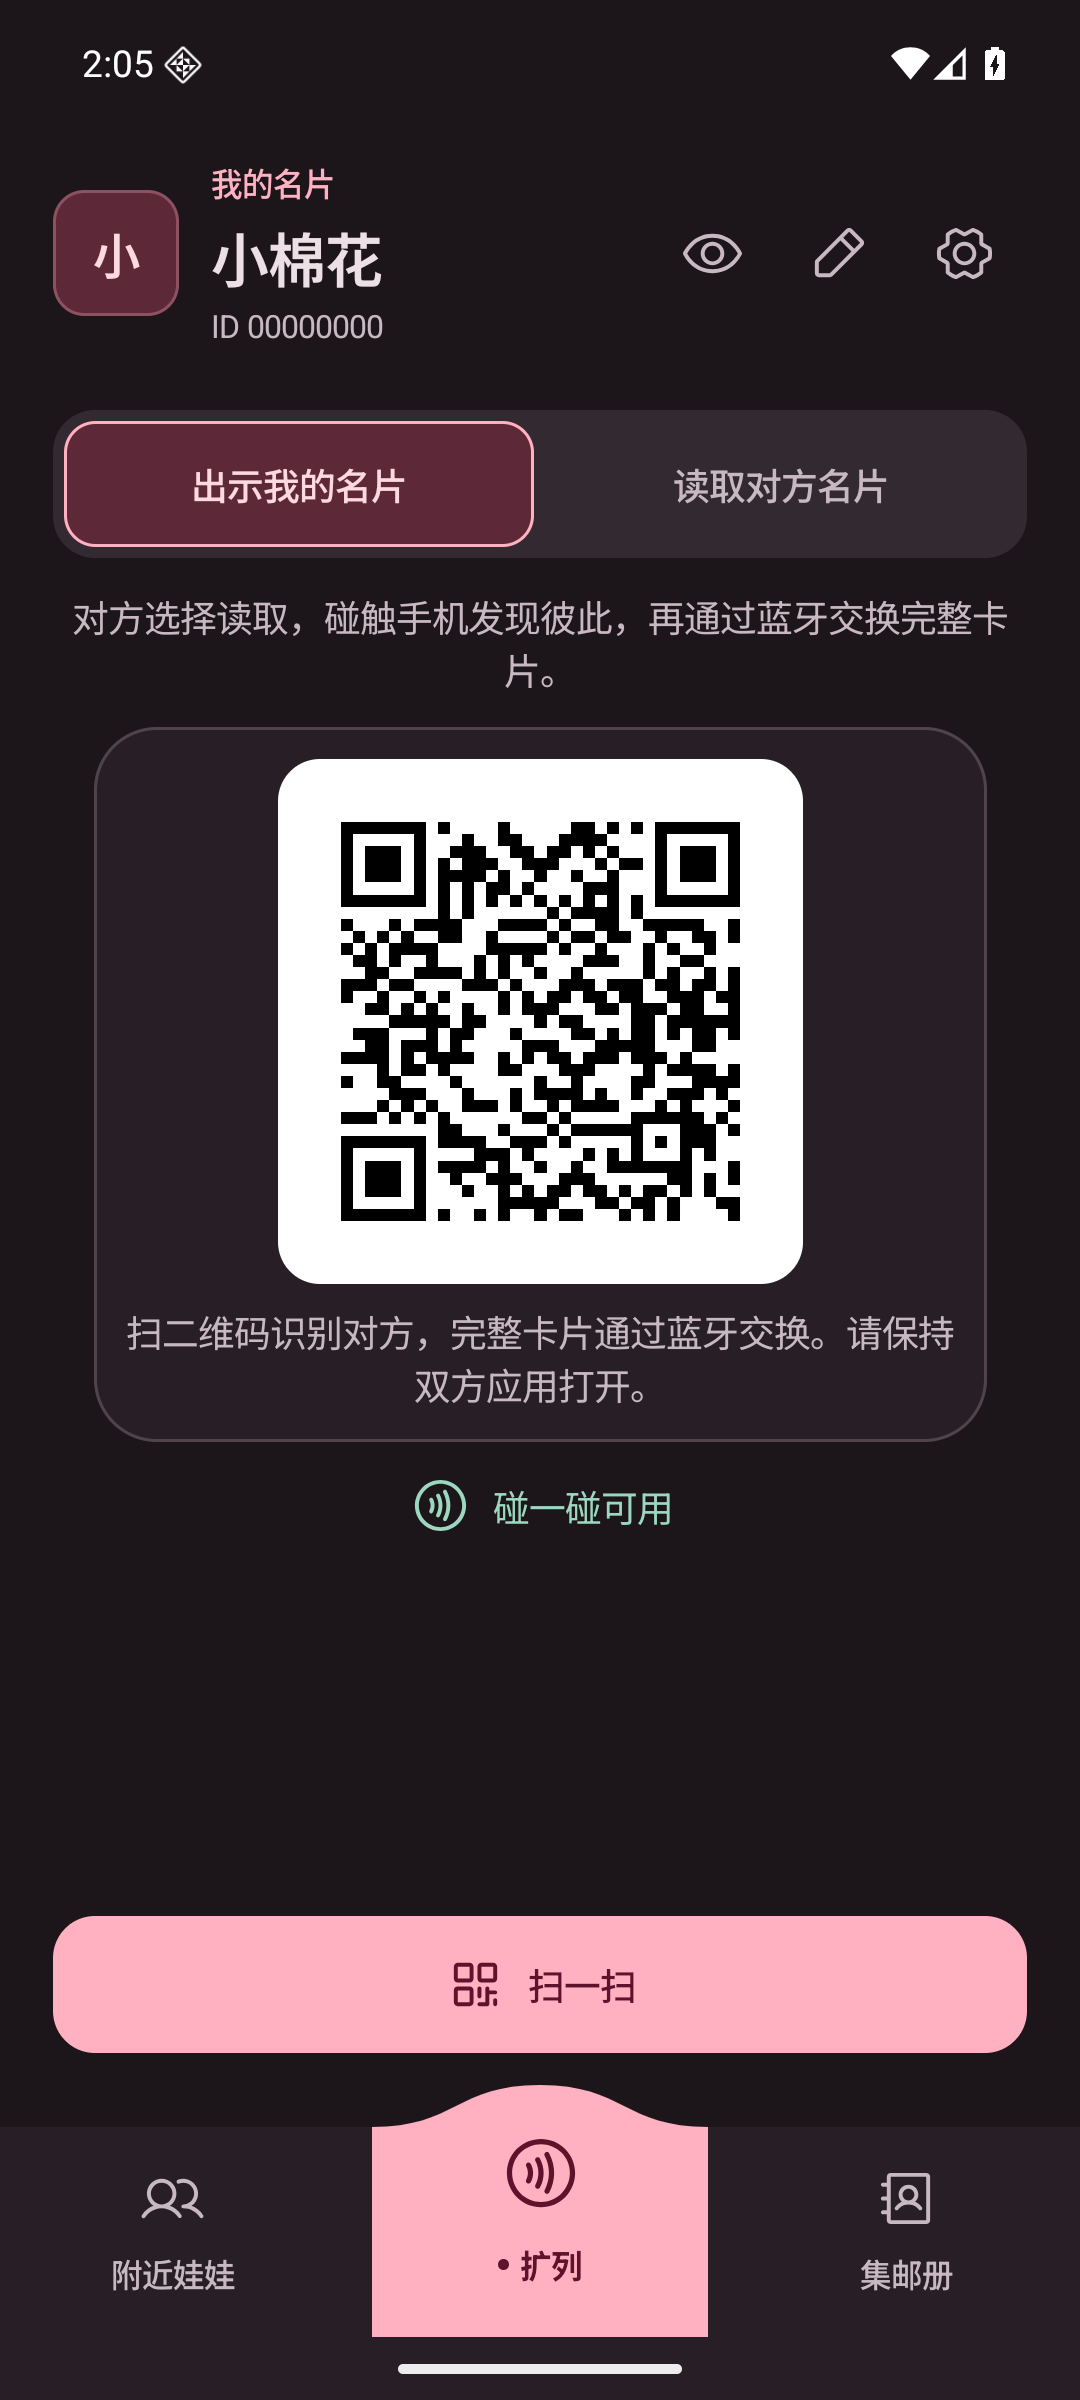
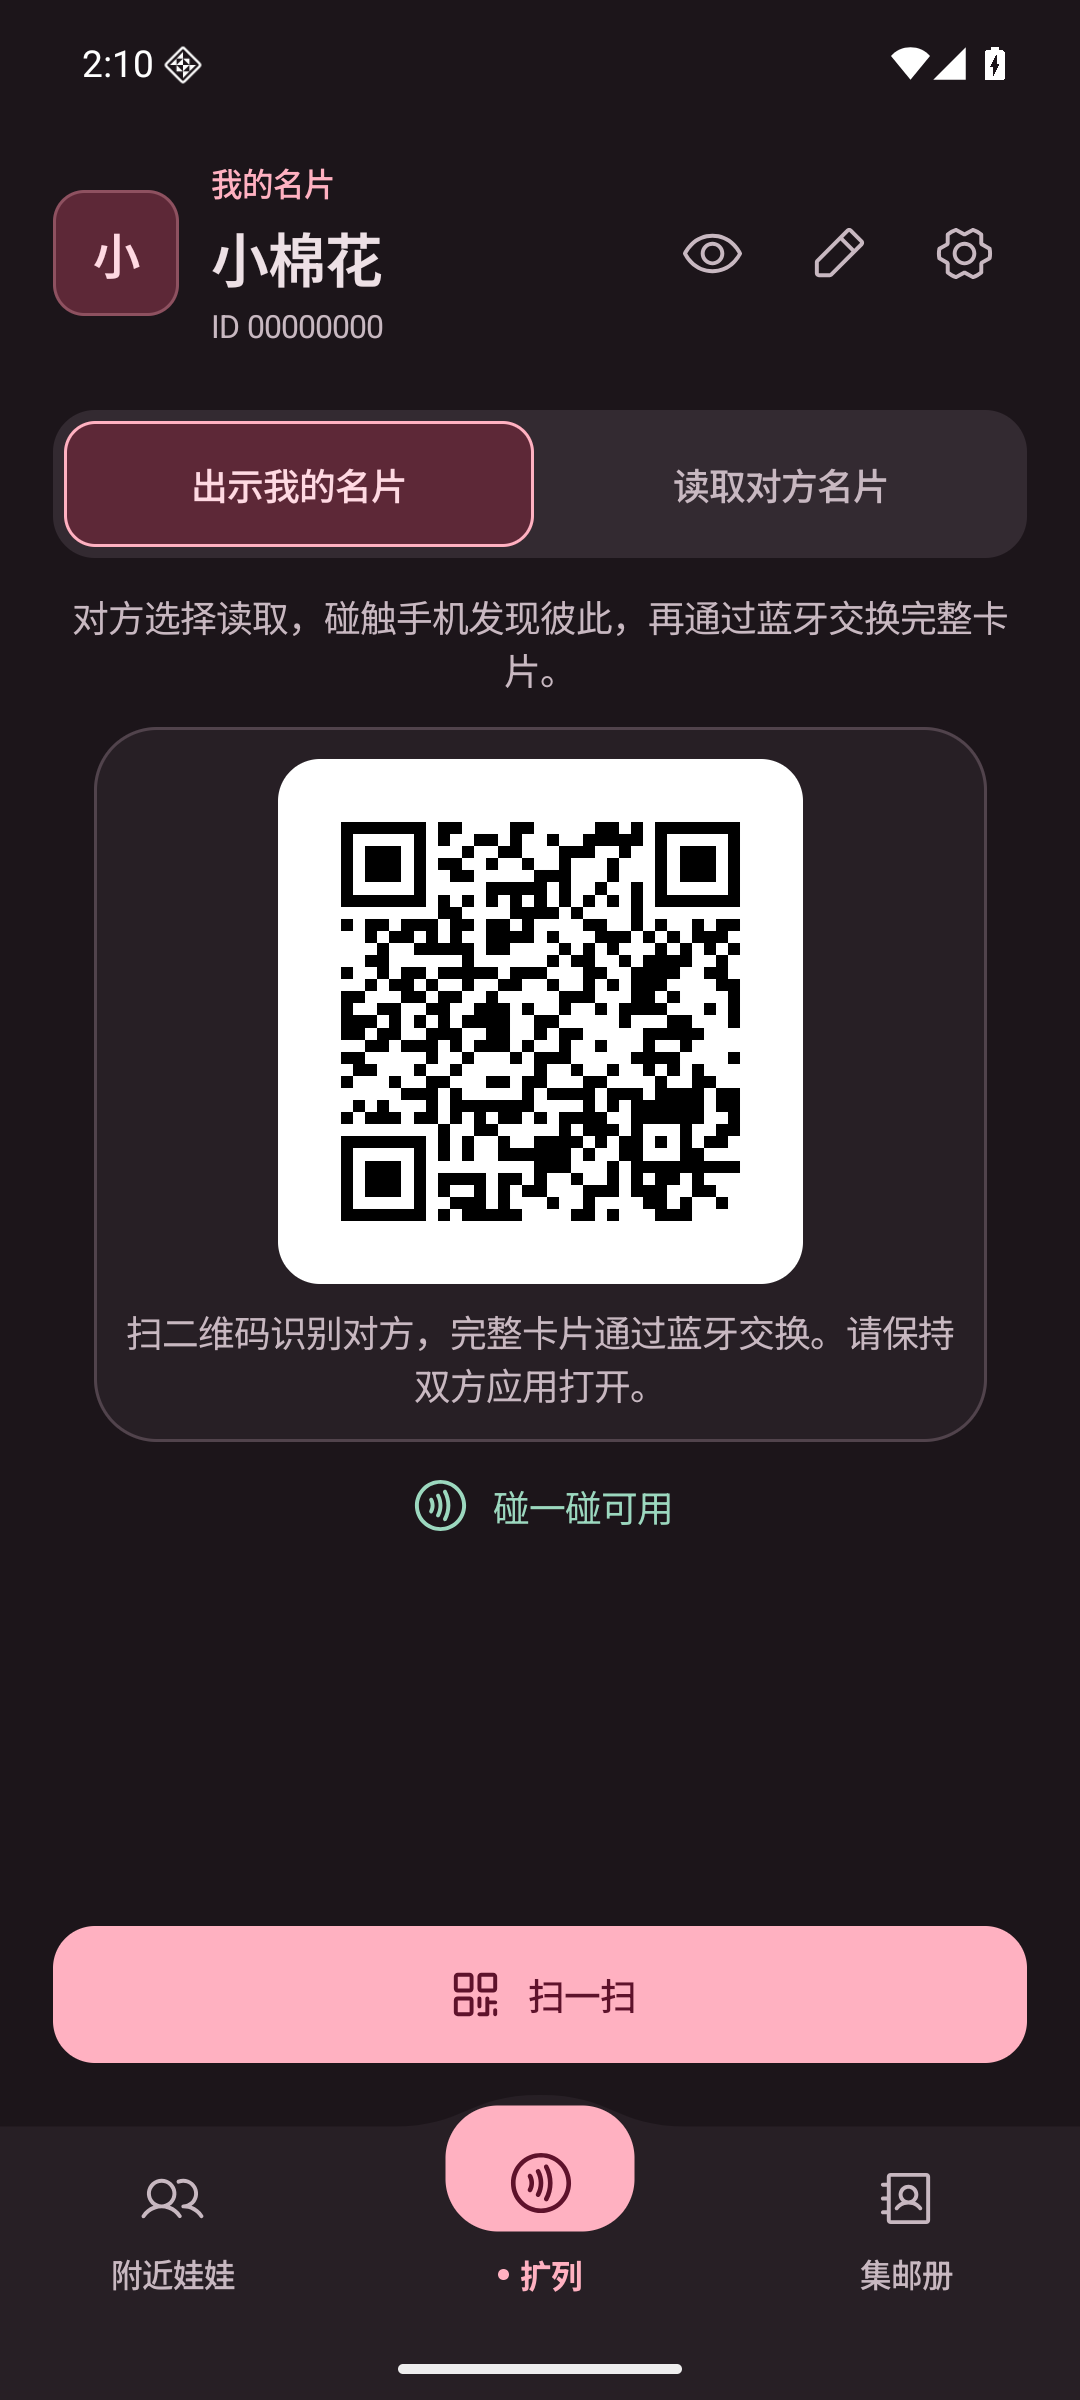
style: 精简扩列导航的强调区域与比例

Changed region(s): [[0.0611, 0.7812, 0.9472, 1.0], [0.3056, 0.3438, 0.7028, 0.5312], [0.0917, 0.0, 0.1222, 0.0312]]

diff --git a/app/src/main/kotlin/app/pengwa/ui/AppNavigation.kt b/app/src/main/kotlin/app/pengwa/ui/AppNavigation.kt
@@ -11,6 +11,9 @@ import androidx.compose.runtime.Composable
 import androidx.compose.ui.Alignment
 import androidx.compose.ui.Modifier
 import androidx.compose.ui.draw.drawBehind
+import androidx.compose.ui.geometry.CornerRadius
+import androidx.compose.ui.geometry.Offset
+import androidx.compose.ui.geometry.Size
 import androidx.compose.ui.graphics.Color
 import androidx.compose.ui.graphics.Path
 import androidx.compose.ui.semantics.Role
@@ -80,12 +83,11 @@ internal fun PengWaScaffold(
 internal fun PengWaNavigation(selectedTab: Int, onSelect: (Int) -> Unit) {
     val barColor = MaterialTheme.colorScheme.surface
     val accentColor = MaterialTheme.colorScheme.primary
-    val bottomInset = NavigationBarDefaults.windowInsets.getBottom(LocalDensity.current)
     // Draw one continuous bar silhouette: the central crest belongs to the bar itself.
     Box(Modifier.drawBehind {
-        val top = 16.dp.toPx()
+        val top = 12.dp.toPx()
         val center = size.width / 2f
-        val shoulder = 64.dp.toPx()
+        val shoulder = 56.dp.toPx()
         val path = Path().apply {
             moveTo(0f, top)
             lineTo(center - shoulder, top)
@@ -97,24 +99,21 @@ internal fun PengWaNavigation(selectedTab: Int, onSelect: (Int) -> Unit) {
             close()
         }
         drawPath(path, barColor)
-        val accent = Path().apply {
-            moveTo(center - shoulder, top)
-            cubicTo(center - shoulder / 2f, top, center - shoulder / 2f, 0f, center, 0f)
-            cubicTo(center + shoulder / 2f, 0f, center + shoulder / 2f, top, center + shoulder, top)
-            lineTo(center + shoulder, size.height - bottomInset)
-            lineTo(center - shoulder, size.height - bottomInset)
-            close()
-        }
-        drawPath(accent, accentColor)
+        drawRoundRect(
+            color = accentColor,
+            topLeft = Offset(center - 36.dp.toPx(), 4.dp.toPx()),
+            size = Size(72.dp.toPx(), 48.dp.toPx()),
+            cornerRadius = CornerRadius(20.dp.toPx()),
+        )
     }) {
         NavigationBar(
-            modifier = Modifier.padding(top = 16.dp),
+            modifier = Modifier.padding(top = 12.dp),
             containerColor = Color.Transparent,
             tonalElevation = 0.dp,
         ) {
             destinations.forEach { item ->
                 if (item.tab == MainActivity.TAB_ME) {
-                    PrimaryDestination(selectedTab == item.tab, { onSelect(item.tab) }, Modifier.weight(1f).offset(y = (-12).dp))
+                    PrimaryDestination(selectedTab == item.tab, { onSelect(item.tab) }, Modifier.weight(1f).offset(y = (-8).dp))
                 } else NavigationBarItem(
                     selected = selectedTab == item.tab,
                     onClick = { onSelect(item.tab) },
@@ -140,22 +139,22 @@ private fun PrimaryDestination(selected: Boolean, onClick: () -> Unit, modifier:
     Column(
         modifier = modifier
             .heightIn(min = 80.dp)
-            .background(if (inRail) MaterialTheme.colorScheme.primary else Color.Transparent)
+            .background(if (inRail) MaterialTheme.colorScheme.primaryContainer else Color.Transparent)
             .selectable(selected = selected, onClick = onClick, role = Role.Tab)
             .padding(vertical = 4.dp),
         horizontalAlignment = Alignment.CenterHorizontally,
         verticalArrangement = Arrangement.spacedBy(4.dp, Alignment.CenterVertically),
     ) {
         Box(Modifier.size(width = 72.dp, height = 44.dp), contentAlignment = Alignment.Center) {
-            PengWaIcon(PengWaIcons.Tap, Modifier.size(32.dp), tint = MaterialTheme.colorScheme.onPrimary)
+            PengWaIcon(PengWaIcons.Tap, Modifier.size(28.dp), tint = if (inRail) MaterialTheme.colorScheme.primary else MaterialTheme.colorScheme.onPrimary)
         }
         Row(horizontalArrangement = Arrangement.spacedBy(4.dp), verticalAlignment = Alignment.CenterVertically) {
-            if (selected) Box(Modifier.size(4.dp).background(MaterialTheme.colorScheme.onPrimary, CircleShape))
+            if (selected) Box(Modifier.size(4.dp).background(MaterialTheme.colorScheme.primary, CircleShape))
             Text(
                 stringResource(R.string.tab_exchange),
                 style = MaterialTheme.typography.labelMedium,
                 fontWeight = FontWeight.Bold,
-                color = MaterialTheme.colorScheme.onPrimary,
+                color = MaterialTheme.colorScheme.primary,
             )
         }
     }

diff --git a/docs/screenshots/primary-navigation/README.md b/docs/screenshots/primary-navigation/README.md
@@ -1,6 +1,16 @@
 # 扩列主导航入口
 
-将碰一碰／二维码／扫一扫所在的默认页面从“主页”改为导航正中的“扩列”。导航顺序为“附近娃娃／扩列／集邮册”。底部导航栏中央以连续曲线向上凸起，凸起及其下方扩列区域统一使用主题强调色，图标、标签和选中圆点使用 onPrimary 高对比颜色。强调区域贴合栏体，无阴影或悬浮间隙；两侧保留常规导航样式。横屏短窗口的侧栏同样使用通栏强调色背景，无圆角卡片和阴影。默认打开的页面与交换逻辑沿用现有实现。
+将碰一碰／二维码／扫一扫所在的默认页面从“主页”改为导航正中的“扩列”。导航顺序为“附近娃娃／扩列／集邮册”。导航栏中央使用 12dp 的低凸起，72 × 48dp 的扁平强调色圆角区域仅承载 28dp 图标；标签回到栏体底色上，用主题色与加粗文字强调，选中时额外显示圆点。强调色收在图标附近，系统手势区保留导航底色；整个入口无阴影，触控高度至少 80dp。横屏侧栏使用浅色背景与主题色图文，维持相同主次关系。默认页面与交换逻辑沿用现有实现。
+
+## 设计依据
+
+使用 [UI UX Pro Max](https://github.com/nextlevelbuilder/ui-ux-pro-max-skill) 的移动端规则进行复核。导航搜索结果偏向 Web，Compose 搜索也未匹配本次外观问题，因此采用技能自带 `pro-rules.md` 与 `quick-reference.md` 的原生导航规则，不将搜索结果视作匹配方案。
+
+- 三个入口均保留图标与标签，选中状态使用圆点和语义，不仅依赖颜色。
+- 采用现有 Phosphor 图标和 Material 主题 token，Android 最小触控尺寸不低于 48dp。
+- 强调色限制在中央图标区域，减少大色块的视觉重量；轮廓贴合栏体，无阴影和悬浮间隙。
+- 图标与强调色底的对比度：浅色 6.33:1、深色 7.71:1；标签与栏体为 6.33:1 / 9.40:1；侧栏为 5.28:1 / 6.75:1。
+
 
 ## 运行环境与测试数据
 
@@ -8,6 +18,8 @@
 - 常规：1080 × 2400、420 dpi、字体 1.0 倍；浅色与深色主题。
 - 窄屏：840 × 1680、420 dpi（320 × 640dp）、字体 1.5 倍；浅色。
 - 横屏短窗口：1680 × 840、420 dpi（640 × 320dp）、字体 1.0 倍；浅色。
+- 补充适配：984 × 1968（约 375dp）、840 × 1680／字体 2.0、2100 × 2800（800 × 1067dp）、2800 × 2100（1067 × 800dp）；均为浅色主题。
+- 最终截图关闭系统窗口、过渡和属性动画（动画倍率 0），完成后恢复原设置，确认布局不依赖动画。
 - 全部图片来自运行中的 Debug APK，由 `adb exec-out screencap -p` 获取。使用原有 `UiPreviewActivity` 固定测试场景，没有真实用户姓名、ID 或联系人。
 - 扩列场景为 `home` sample 1（合成身份“小棉花”，已是默认钱包）；附近场景为 `bluetooth` sample 0（未授权），集邮册为 `contacts` sample 0（空列表）。变更前来自 PR 基线 main（`a9ac122`），变更后来自本分支；使用相同数据与设备配置。
 
@@ -23,6 +35,10 @@
 | 扩列，深色 | ![变更前](before-home-dark.png) | ![变更后](after-home-dark.png) |
 | 扩列，320dp／1.5 倍字体 | ![变更前](before-narrow.png) | ![变更后](after-narrow.png) |
 | 扩列，横屏侧栏 | ![变更前](before-landscape.png) | ![变更后](after-landscape.png) |
+| 扩列，375dp 手机 | ![变更前](before-phone-375.png) | ![变更后](after-phone-375.png) |
+| 扩列，320dp／2 倍字体 | ![变更前](before-largest-text.png) | ![变更后](after-largest-text.png) |
+| 扩列，800dp 平板竖屏 | ![变更前](before-tablet-portrait.png) | ![变更后](after-tablet-portrait.png) |
+| 扩列，1067dp 平板横屏 | ![变更前](before-tablet-landscape.png) | ![变更后](after-tablet-landscape.png) |
 
 ## 复现步骤
 
@@ -34,7 +50,7 @@
    adb -s emulator-5560 shell am start -n app.pengwa.debug/app.pengwa.ui.UiPreviewActivity --es screen home --ei sample 1
    ```
 
-3. 分别使用 `--es screen bluetooth --ei sample 0`、`--es screen contacts --ei sample 0` 打开两侧页面。确认扩列在导航栏正中凸起处，区域使用强调色、图标文字有清晰对比，轮廓与栏体连续、没有悬浮阴影；仅选中扩列时标签前有圆点。
+3. 分别使用 `--es screen bluetooth --ei sample 0`、`--es screen contacts --ei sample 0` 打开两侧页面。确认扩列在导航栏正中凸起处，图标圆角区域使用强调色、标签回到栏体底色上并保持清晰对比，轮廓与栏体连续、没有悬浮阴影；仅选中扩列时标签前有圆点。
 4. 用 `adb -s emulator-5560 shell cmd uimode night yes` 切换深色，`no` 恢复浅色。
 5. 窄屏验证：`adb -s emulator-5560 shell wm size 840x1680`，`adb -s emulator-5560 shell settings put system font_scale 1.5`，确认三个入口及标签可见。
 6. 字体恢复 `1.0`，使用 `wm size 1680x840` 验证横屏侧栏。完成后执行 `wm size reset`、`font_scale 1.0` 和 `cmd uimode night no` 恢复配置。
@@ -45,6 +61,7 @@
 - 原工作区的 Debug 构建、Android lint 与 `git diff --check` 通过。
 - PR 独立分支的 `assembleDebug :app:lintDebug` 通过。
 - PR 独立分支基于最新 main（`a9ac122`）构建；全模块 `lintDebug` 被已有蓝牙模块的两处 `WrongConstant` 错误阻挡，位置均在未修改的 `core/bluetooth/.../BleExchangeManager.kt:902`。PR 未修改该模块。
+- 2 倍字体下三个导航标签完整可见；页面原有头部及 NFC 文案大幅增高，二维码需滚动查看，本次未调整正文布局。
 - 已核对上述运行中应用的前后截图：导航顺序、扩列与导航栏连为一体的强调、选中圆点、浅深主题、窄屏大字体和横屏侧栏。
 - 主入口使用 Tab 角色和 selected 语义，整个导航项可点击，最小高度 80dp。未进行 TalkBack 语音实测。
 - 固定预览场景的导航回调为空，仅用于验证界面与各页面选中状态；真实 NFC、蓝牙交换与扫码硬件行为未在本次复测。
